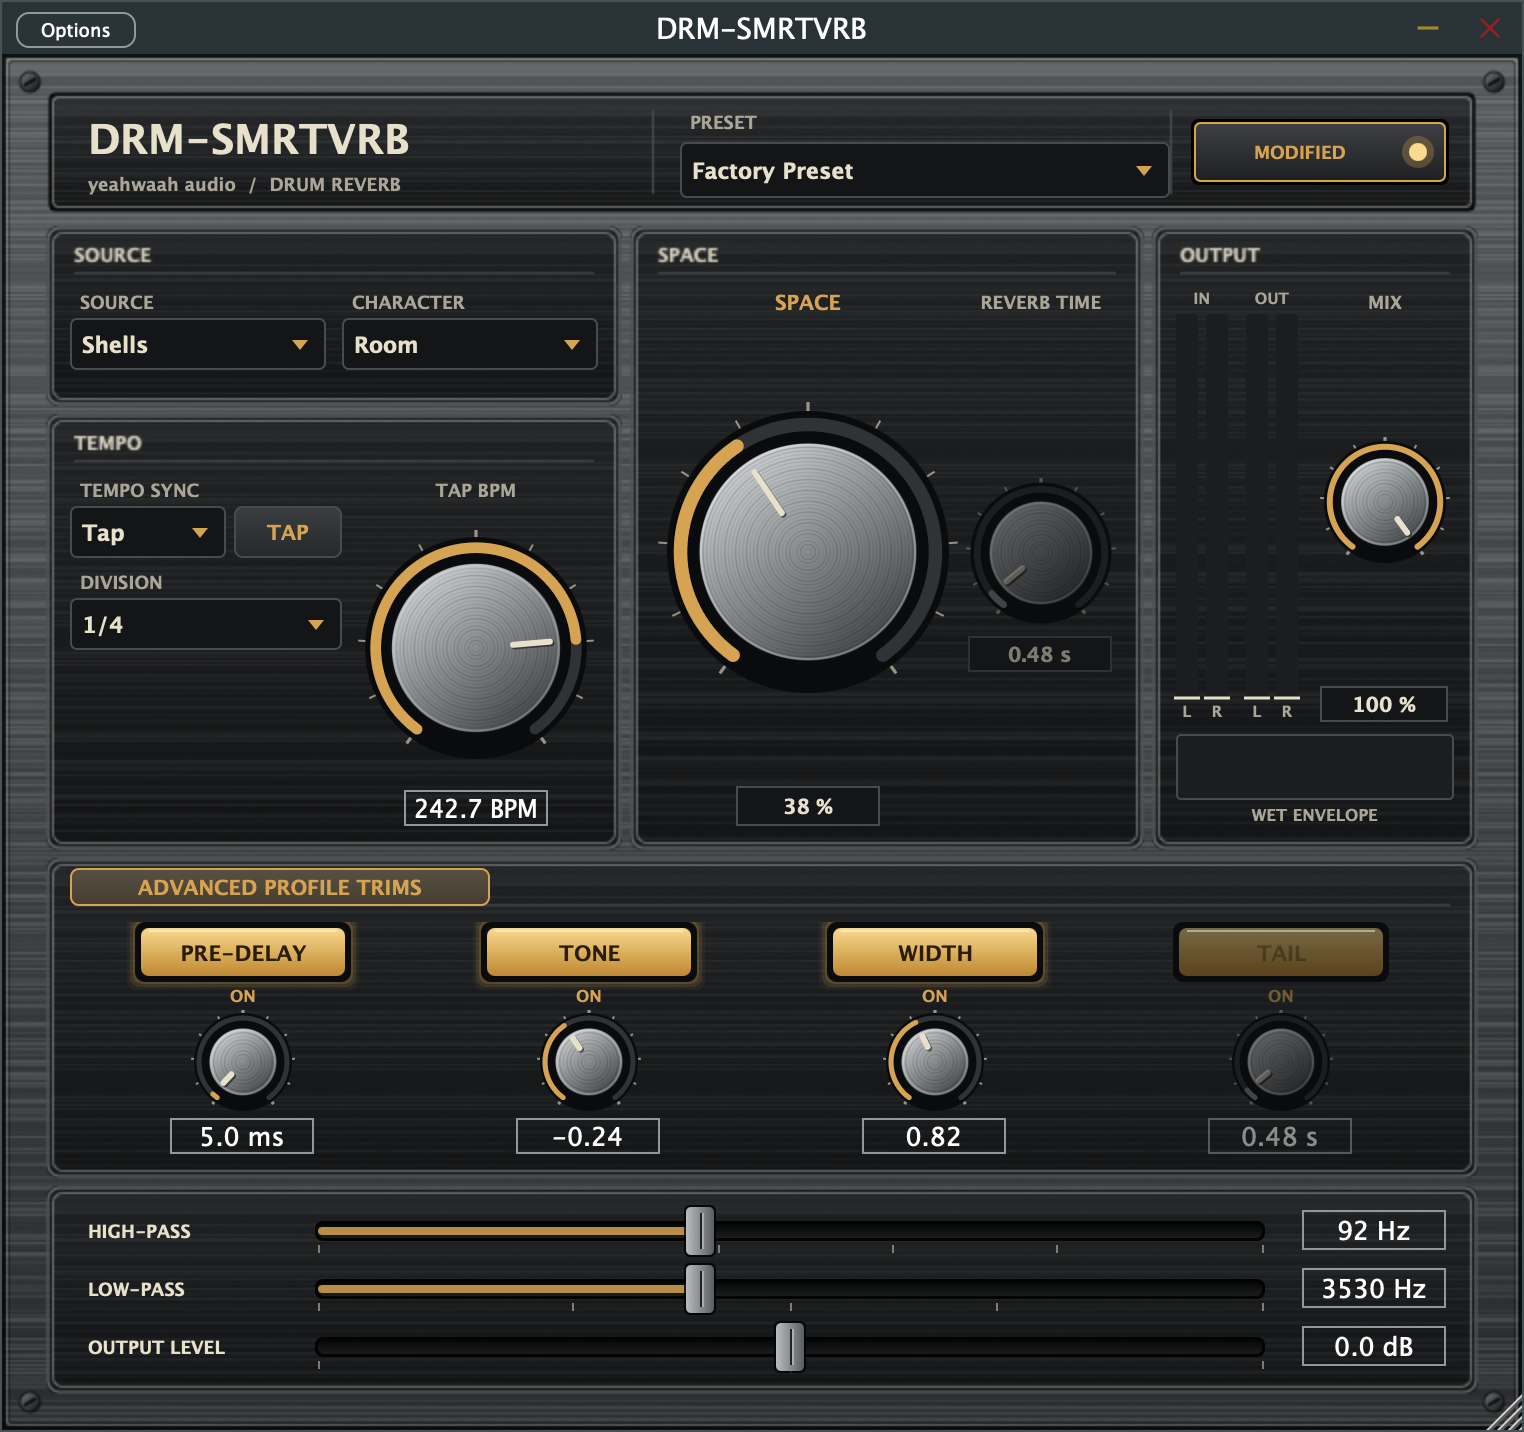
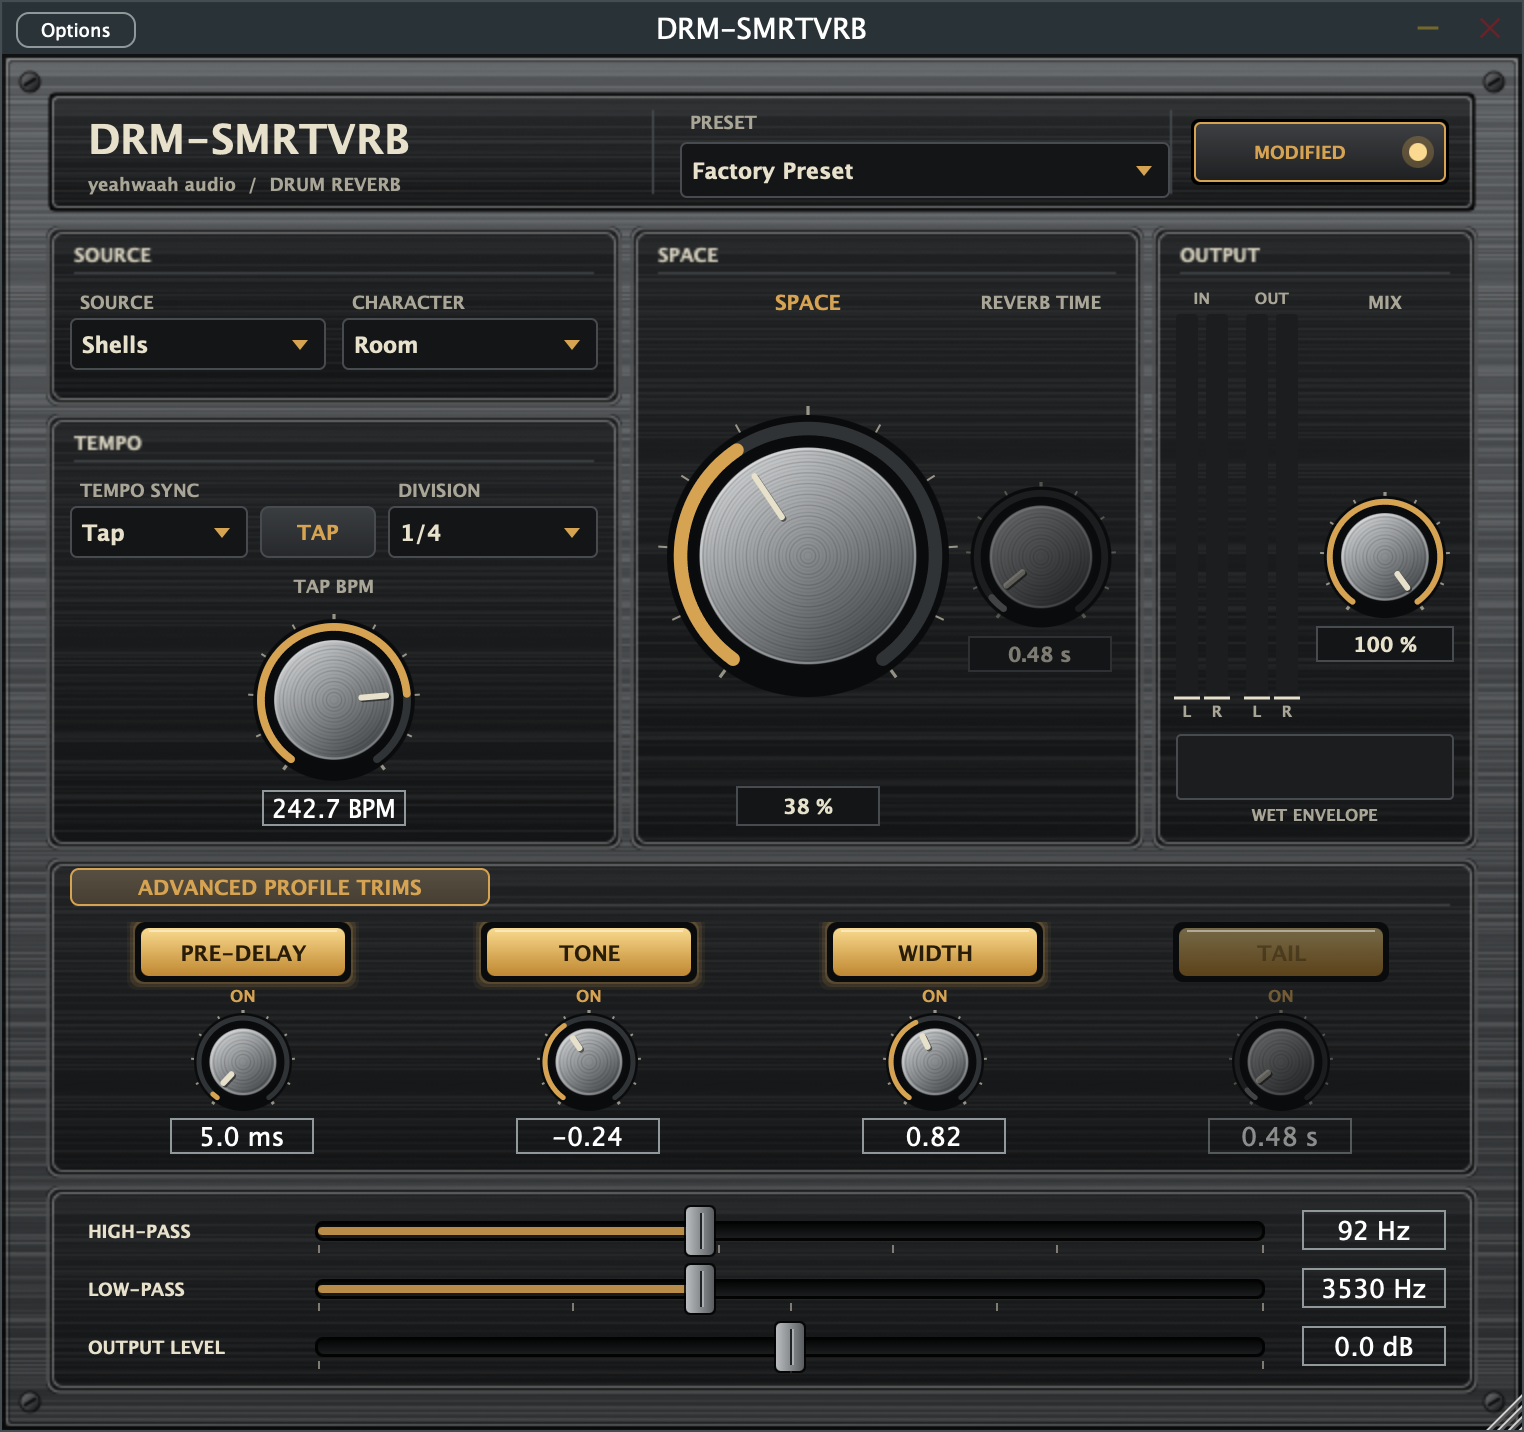
Layout experiment: balanced TEMPO panel and shared knob axes (#22)

diff --git a/Source/PluginEditor.cpp b/Source/PluginEditor.cpp
@@ -705,46 +705,60 @@ void DRMsmrtvrbAudioProcessorEditor::resized()
         character.setBounds(right.withHeight(26));
     }
 
-    // Tempo panel.
+    // Knob block: caption on the top edge, readout on the bottom edge, knob centred between them.
+    const auto placeKnob = [](juce::Label& caption, juce::Slider& knob, juce::Rectangle<int> area,
+                              int textHeight, int maxDiameter)
     {
-        auto columns = tempoPanel.reduced(10).withTrimmedTop(18);
-        auto controls = columns.removeFromLeft(columns.getWidth() * 54 / 100).withTrimmedRight(6);
-        syncLabel.setBounds(controls.removeFromTop(16));
-        auto syncRow = controls.removeFromTop(26);
-        tapButton.setBounds(syncRow.removeFromRight(syncRow.getWidth() * 40 / 100));
-        sync.setBounds(syncRow.withTrimmedRight(4));
-        controls.removeFromTop(4);
-        divisionLabel.setBounds(controls.removeFromTop(16));
-        division.setBounds(controls.removeFromTop(26));
+        const int diameter = juce::jmin(maxDiameter, area.getWidth(), area.getHeight() - 16 - textHeight - 4);
+        caption.setBounds(area.getX(), area.getY(), area.getWidth(), 16);
+        knob.setTextBoxStyle(juce::Slider::TextBoxBelow, false, juce::jmin(72, area.getWidth()), textHeight);
+        knob.setBounds(area.getCentreX() - diameter / 2, area.getY() + 20, diameter, area.getHeight() - 20);
+    };
+    // Places a knob of a given diameter with its centre on a shared horizontal axis.
+    const auto placeOnAxis = [](juce::Label& caption, juce::Slider& knob, juce::Rectangle<int> area,
+                                int captionY, int axisY, int diameter, int textHeight)
+    {
+        caption.setBounds(area.getX(), captionY, area.getWidth(), 16);
+        knob.setTextBoxStyle(juce::Slider::TextBoxBelow, false, juce::jmin(72, area.getWidth()), textHeight);
+        knob.setBounds(area.getCentreX() - diameter / 2, axisY - diameter / 2, diameter, diameter + textHeight);
+    };
 
-        bpmLabel.setBounds(columns.removeFromTop(16));
-        bpm.setTextBoxStyle(juce::Slider::TextBoxBelow, false, juce::jmin(72, columns.getWidth()), 18);
-        bpm.setBounds(columns);
+    // Tempo panel: one row of selectors, then the BPM knob centred underneath.
+    {
+        auto inner = tempoPanel.reduced(10).withTrimmedTop(18);
+        auto selectors = inner.removeFromTop(42);
+        const int width = selectors.getWidth();
+        auto syncColumn = selectors.removeFromLeft(width * 34 / 100);
+        selectors.removeFromLeft(6);
+        auto tapColumn = selectors.removeFromLeft(width * 22 / 100);
+        selectors.removeFromLeft(6);
+        syncLabel.setBounds(syncColumn.removeFromTop(16));
+        sync.setBounds(syncColumn.removeFromTop(26));
+        tapButton.setBounds(tapColumn.removeFromBottom(26));
+        divisionLabel.setBounds(selectors.removeFromTop(16));
+        division.setBounds(selectors.removeFromTop(26));
+
+        inner.removeFromTop(6);
+        bpm.setTextBoxStyle(juce::Slider::TextBoxBelow, false, 72, 18);
+        placeKnob(bpmLabel, bpm, inner, 18, 96);
     }
 
-    // SPACE panel: large SPACE knob with Reverb Time beside it.
+    // SPACE and OUTPUT panels: captions, knob centres and readouts share common horizontal axes.
+    int captionY = 0, axisY = 0;
     {
         auto inner = spacePanel.reduced(10).withTrimmedTop(18);
         auto decayColumn = inner.removeFromRight(inner.getWidth() * 34 / 100);
-        spaceLabel.setBounds(inner.removeFromTop(16));
-        space.setTextBoxStyle(juce::Slider::TextBoxBelow, false, 72, 20);
-        space.setBounds(inner);
-        decayLabel.setBounds(decayColumn.removeFromTop(16));
-        const int decayHeight = juce::jmin(decayColumn.getHeight(), decayColumn.getWidth() + 22);
-        freeDecay.setTextBoxStyle(juce::Slider::TextBoxBelow, false, juce::jmin(72, decayColumn.getWidth()), 18);
-        freeDecay.setBounds(decayColumn.withSizeKeepingCentre(decayColumn.getWidth(), decayHeight));
+        placeKnob(spaceLabel, space, inner, 20, 190);
+        captionY = spaceLabel.getY();
+        axisY = space.getY() + (space.getHeight() - 20) / 2;
+        placeOnAxis(decayLabel, freeDecay, decayColumn, captionY, axisY, juce::jmin(decayColumn.getWidth(), 92), 18);
     }
-
-    // Output panel: meters, Mix, wet envelope.
     {
         auto inner = outputPanel.reduced(10).withTrimmedTop(18);
         envelopeBox = inner.removeFromBottom(46);
         inner.removeFromBottom(6);
         meterBox = inner.removeFromLeft(66);
-        auto mixArea = inner.withTrimmedLeft(4);
-        mixLabel.setBounds(mixArea.removeFromTop(16));
-        mix.setTextBoxStyle(juce::Slider::TextBoxBelow, false, juce::jmin(64, mixArea.getWidth()), 18);
-        mix.setBounds(mixArea);
+        placeOnAxis(mixLabel, mix, inner.withTrimmedLeft(4), captionY, axisY, juce::jmin(inner.getWidth() - 4, 84), 18);
     }
 
     // Advanced panel: four ON/OFF switches, each above its knob.

diff --git a/CHANGELOG.md b/CHANGELOG.md
@@ -6,6 +6,8 @@
 
 ## Unreleased — wet filters, symmetric output fader, collapsible advanced section
 
+- Layout experiment (console look): TEMPO selectors (Sync, Tap, Division) now share one row with the BPM knob centred below; SPACE, REVERB TIME and MIX captions and knob centres sit on shared horizontal axes. No parameter or behaviour changes.
+
 - Layout: window height now follows the Advanced Profile Trims toggle (560 hidden / 688 shown) and the advanced panel has a fixed height, reducing empty space in the panels.
 
 - Output Level range changed from -24..+18 dB to -12..+12 dB (ticks at -12 / 0 / +12, fill from 0). Sessions that saved a value outside the new range clamp to it.
